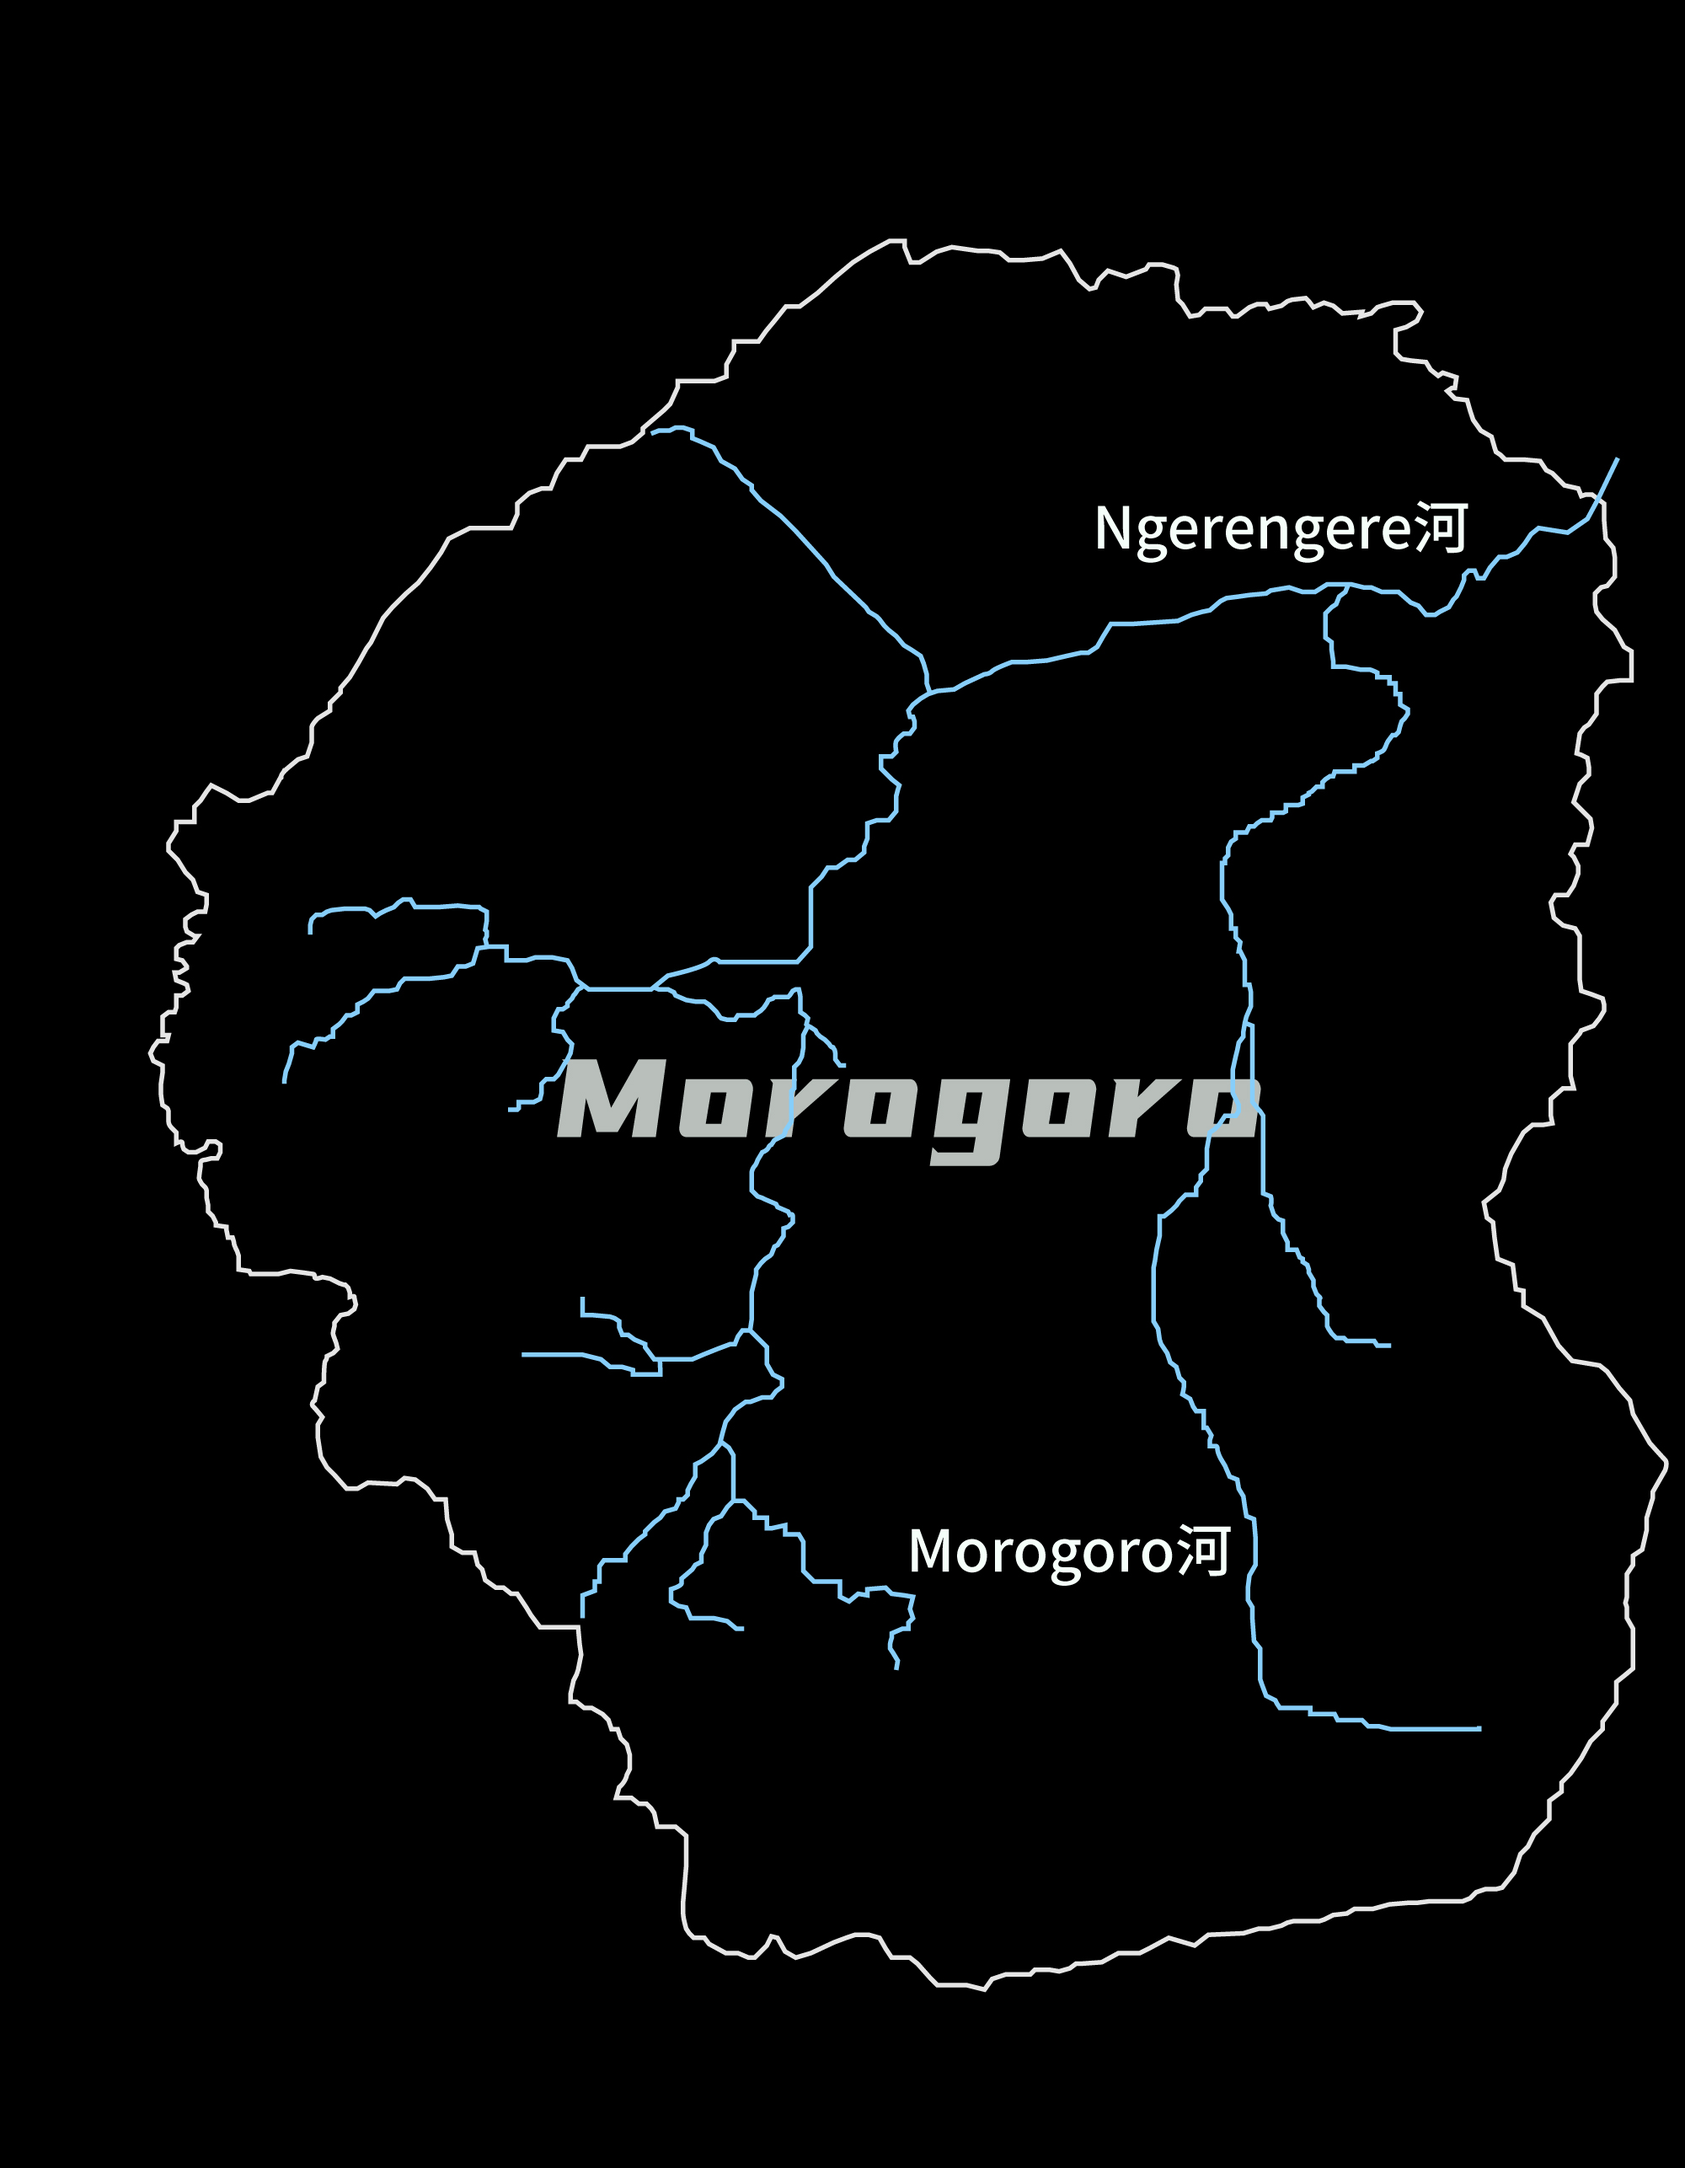
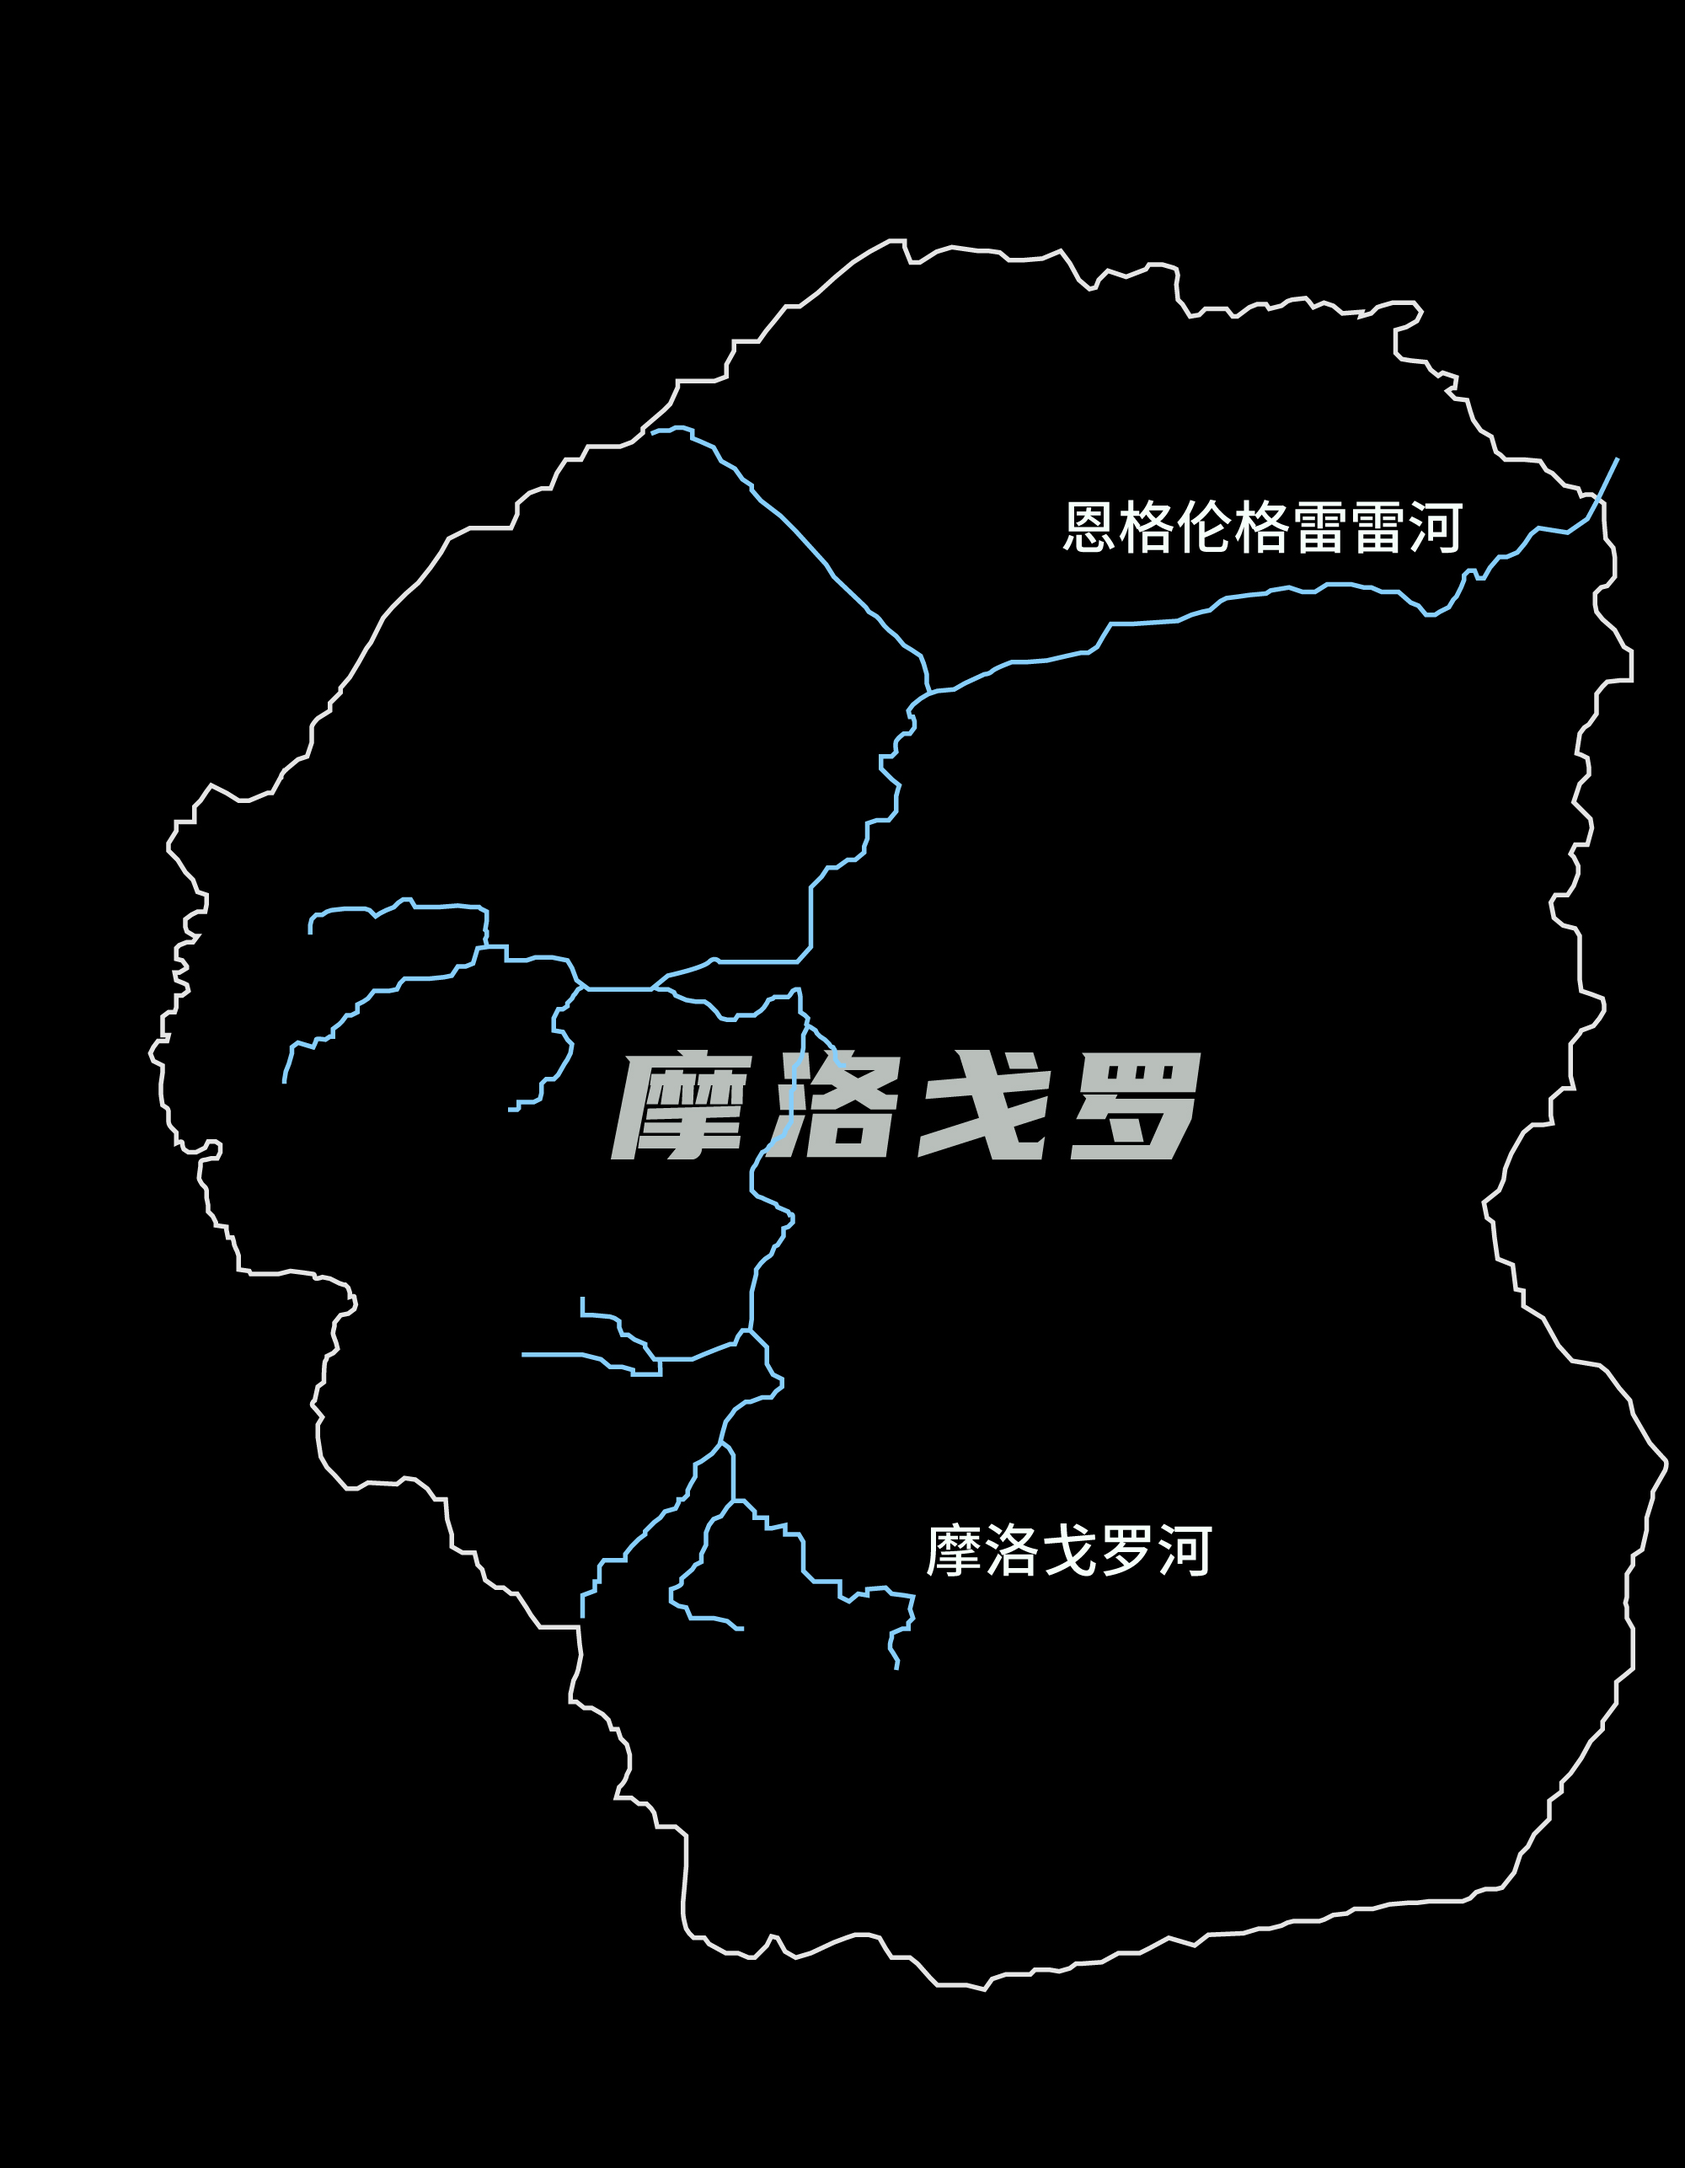
改标题

diff --git a/index.html b/index.html
@@ -5,7 +5,7 @@
     <meta name="viewport" content="width=device-width, initial-scale=1, shrink-to-fit=no">
     <meta name="description" content="">
     <meta name="author" content="">
-    <title>服装产业背后的肮脏秘密</title>
+    <title>时尚的反噬</title>
     <!-- Bootstrap core CSS -->
     <link href="vendor/bootstrap/css/bootstrap.min.css" rel="stylesheet">
     <!-- Custom fonts for this template -->
@@ -67,7 +67,7 @@
                     <h2 class="section-heading text-white"><span style="font-size: 39px;
     font-family:'xbt';">一条河流的故事</span></h2>
                     <hr class="light my-4">
-                    <p class="text-faded mb-4"><span style="font-size: 25px">时尚、个性、帅气、美丽？
+                    <p class="text-faded mb-4"><span style="font-size: 25px">时尚、个性、潮流、自由？
                         <br>
 这些符号的生产，可能会让我们付出沉重代价。</span></p>
 
@@ -86,7 +86,7 @@
                         <div style="font-size:20px; color: #fefefe; line-height: 37px">
                         <div style="text-indent: 51px">非洲是全球纺织品和服装生产的一颗冉冉升起的新星。非洲大陆2020年出口服装价值54.09亿美元、2021年72.91亿美元，在2022年第一季度(Q1)首次突破<span style="color: #bd2130; font-size: 30px">20亿美元</span>，达到<span style="color: #bd2130; font-size: 30px">20.83亿美元</span>。作为非洲第四大棉花生产国和重要的纺织品出口国，坦桑尼亚正源源不断地向欧洲、北美乃至全世界输送着优质棉花、潮流服饰和时尚单品。
 </div>
-                        <div style="text-indent: 51px">然而，当踏足此地，才发现这里与“时尚”一词相去甚远。Morogoro市的主要饮用水源——Ngerengere河曾十分清澈，当地居民每天依赖它来洗澡、洗涤、灌溉牲畜和菜园。而如今，河道却流淌着黑色的污水，空气中弥漫着刺鼻的气味。河流不再是他们的生命之源，而是无止尽的<span style="color: #bd2130; font-size: 30px">病痛之源</span>。污水带来的腹泻和传染病困扰着每一个人。从<em>国际环保组织Water Witness International发布的调查报告</em>中发现，Ngerengere河受到严重污染。河水的电导率（一项污染指标）是干净河流受污染水平的<span style="color: #bd2130; font-size: 30px">1000倍</span>，粪便大肠菌群是世卫组织饮用水安全水平的<span style="color: #bd2130; font-size: 30px">8000倍</span>。 </div>
+                        <div style="text-indent: 51px">然而，当踏足此地，才发现这里与“时尚”一词相去甚远。摩洛戈罗市的主要饮用水源——恩格伦格雷雷河曾十分清澈，当地居民每天依赖它来洗澡、洗涤、灌溉牲畜和菜园。而如今，河道却流淌着黑色的污水，空气中弥漫着刺鼻的气味。河流不再是他们的生命之源，而是无止尽的<span style="color: #bd2130; font-size: 30px">病痛之源</span>。污水带来的腹泻和传染病困扰着每一个人。从<em>水监测国际组织(Water Witness International)</em>发布的调查报告中发现，恩格伦格雷雷河受到严重污染。河水的电导率（一项污染指标）是干净河流受污染水平的<span style="color: #bd2130; font-size: 30px">1000倍</span>，粪便大肠菌群是世卫组织饮用水安全水平的<span style="color: #bd2130; font-size: 30px">8000倍</span>。 </div>
 
                         </div>
 
@@ -133,7 +133,7 @@
                             <div class="portfolio-box-caption-content">
                                 <div class="project-category text-faded">
                                 </div>
-                                <div class="project-name">“我们没有其他水源，因此我们必须每天使用Ngerengere河。水通常很脏，有难闻的气味和奇怪的颜色。”<br><span style="text-align: right; font-size: 20px">——Kingolwira Ward社区</span>
+                                <div class="project-name">“我们没有其他水源，因此我们必须每天使用恩格伦格雷雷河。水通常很脏，有难闻的气味和奇怪的颜色。”<br><span style="text-align: right; font-size: 20px">——Kingolwira Ward社区</span>
 
                                 </div>
                             </div>

diff --git a/index3.html b/index3.html
@@ -5,7 +5,7 @@
     <meta name="viewport" content="width=device-width, initial-scale=1, shrink-to-fit=no">
     <meta name="description" content="">
     <meta name="author" content="">
-    <title>服装产业的边缘性问题</title>
+    <title>时尚的反噬</title>
     <!-- Bootstrap core CSS -->
     <link href="vendor/bootstrap/css/bootstrap.min2.css" rel="stylesheet">
     <!-- Custom fonts for this template -->
@@ -125,7 +125,8 @@
        <br>指导老师：吴小坤&nbsp;
        <br>&nbsp;&nbsp;&nbsp;&nbsp;&nbsp;&nbsp;&nbsp;&nbsp;&nbsp;&nbsp;&nbsp;&nbsp;&nbsp;&nbsp;&nbsp;&nbsp;&nbsp;&nbsp;&nbsp;&nbsp;&nbsp;&nbsp;&nbsp;&nbsp;&nbsp;&nbsp;&nbsp;&nbsp;&nbsp;&nbsp;&nbsp;&nbsp;&nbsp;&nbsp;&nbsp;&nbsp;&nbsp;&nbsp;&nbsp;&nbsp;&nbsp;制作单位：华南理工大学新闻与传播学院
        <br>责任编辑：吴悠&nbsp;&nbsp;&nbsp;&nbsp;&nbsp;
-       <br>&nbsp;&nbsp;&nbsp;&nbsp;&nbsp;&nbsp;&nbsp;&nbsp;&nbsp;&nbsp;&nbsp;&nbsp;&nbsp;&nbsp;&nbsp;&nbsp;&nbsp;&nbsp;&nbsp;&nbsp;&nbsp;&nbsp;&nbsp;&nbsp;&nbsp;&nbsp;&nbsp;&nbsp;&nbsp;&nbsp;&nbsp;&nbsp;&nbsp;&nbsp;&nbsp;&nbsp;&nbsp;&nbsp;出品：南方周末全媒体实验室
+       <br>&nbsp;&nbsp;&nbsp;&nbsp;&nbsp;&nbsp;&nbsp;&nbsp;&nbsp;&nbsp;&nbsp;&nbsp;&nbsp;&nbsp;&nbsp;&nbsp;&nbsp;&nbsp;&nbsp;&nbsp;&nbsp;&nbsp;&nbsp;&nbsp;&nbsp;&nbsp;&nbsp;&nbsp;&nbsp;&nbsp;&nbsp;&nbsp;&nbsp;&nbsp;&nbsp;&nbsp;&nbsp;出品：南方周末全媒体实验室
+       <br>&nbsp;
        <br>&nbsp;
        <br><span style="font-weight: bold">参考资料</span>
        <br>

diff --git a/index2.html b/index2.html
@@ -5,7 +5,7 @@
     <meta name="viewport" content="width=device-width, initial-scale=1, shrink-to-fit=no">
     <meta name="description" content="">
     <meta name="author" content="">
-    <title>&quot;服装垃圾&quot;泛滥成灾</title>
+    <title>时尚的反噬</title>
     <!-- Bootstrap core CSS -->
     <link href="vendor/bootstrap/css/bootstrap.min2.css" rel="stylesheet">
     <!-- Custom fonts for this template -->
@@ -62,7 +62,7 @@ body {
                     <hr>
                 </div>
                 <div class="col-lg-8 mx-auto">
-                    <p class="text-faded mb-5">快时尚、过度的生产和消费、永无止境的购衣欲望</p> 
+                    <p class="text-faded mb-5">快时尚，过度的生产和消费，永无止境的购衣欲望</p> 
                 </div>
             </div>
         </div>
